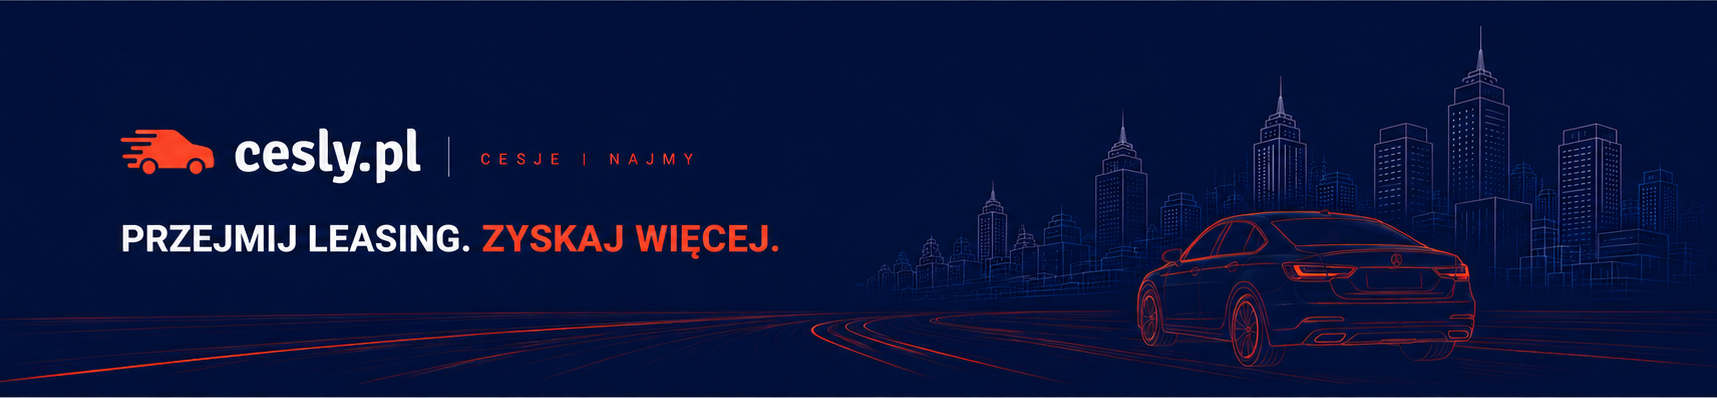
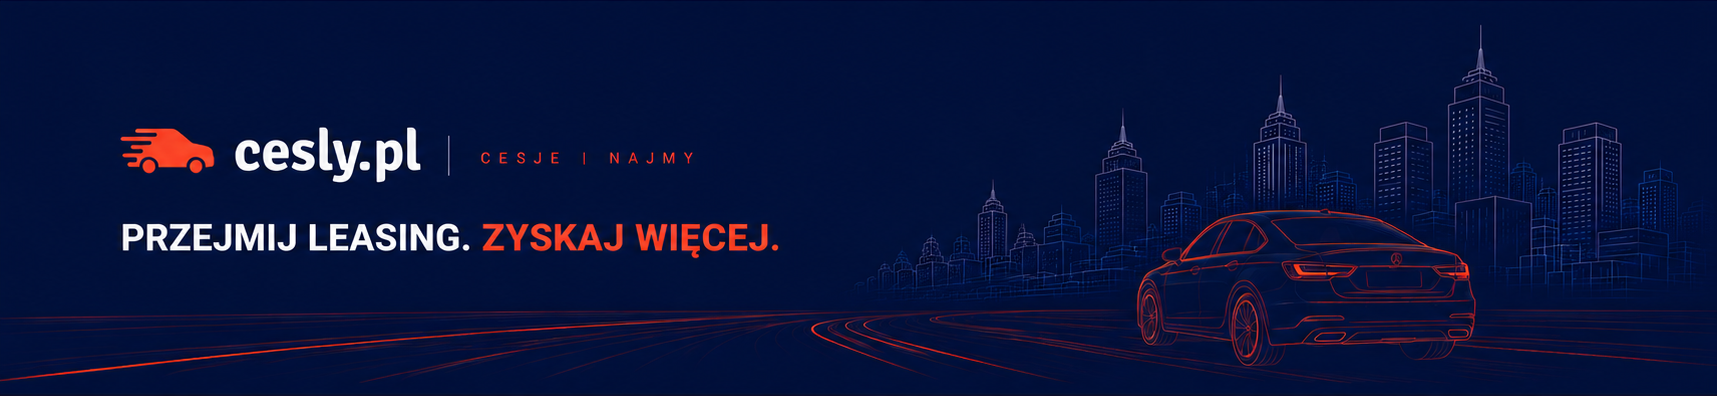
Fix hero gap under nav bar and stray white line at image bottom
Removed pt-4 that left a visible sliver of the section's own gradient
above the image. Re-cropped hero-bg.png one row tighter on each edge
to drop the anti-aliased transition rows that showed as a thin white
line along the bottom.

diff --git a/src/components/HomePage.tsx b/src/components/HomePage.tsx
@@ -377,7 +377,7 @@ export function HomePage({ onViewListing, initialFilters }: HomePageProps) {
       </div>
 
       <section className="relative overflow-hidden bg-gradient-to-tr from-brand-navy to-brand-navy-light">
-        <div className="relative w-full max-w-7xl mx-auto px-4 sm:px-6 lg:px-8 pt-4 pb-6 flex flex-col items-center">
+        <div className="relative w-full max-w-7xl mx-auto px-4 sm:px-6 lg:px-8 pb-6 flex flex-col items-center">
           <img
             src="/hero-bg.png"
             alt="Cesly.pl – Cesje i najmy. Przejmij leasing, zyskaj więcej."